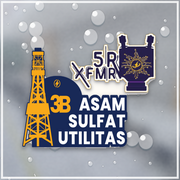
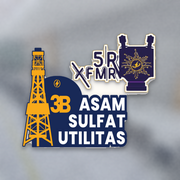
Ikon aplikasi: kaca buram tanpa efek gelembung embun
Claude-Session: https://claude.ai/code/session_01C2ECfJ9dSih9t4DFyg7niu

diff --git a/index.html b/index.html
@@ -7,8 +7,8 @@
   <meta name="description" content="Monitoring kebersihan area 5R XFMR — Asam Sulfat & Utilitas IIIB">
   <meta name="theme-color" content="#1B2A5B">
   <link rel="manifest" href="manifest.json">
-  <link rel="icon" type="image/png" href="icons/icon-192.png?v=3">
-  <link rel="apple-touch-icon" href="icons/apple-touch-icon.png?v=3">
+  <link rel="icon" type="image/png" href="icons/icon-192.png?v=4">
+  <link rel="apple-touch-icon" href="icons/apple-touch-icon.png?v=4">
   <meta name="mobile-web-app-capable" content="yes">
   <meta name="apple-mobile-web-app-capable" content="yes">
   <meta name="apple-mobile-web-app-title" content="5R XFMR">

diff --git a/sw.js b/sw.js
@@ -6,7 +6,7 @@
  * - Periodic Sync: tarik tugas baru & tampilkan notifikasi
  * - Web Push (FCM bila dikonfigurasi, atau push standar)
  * ========================================================= */
-const VERSION = '5r-xfmr-v1.0.13';
+const VERSION = '5r-xfmr-v1.0.14';
 const SHELL_CACHE = 'shell-' + VERSION;
 const IMG_CACHE = 'img-v1';
 const FONT_CACHE = 'font-v1';
